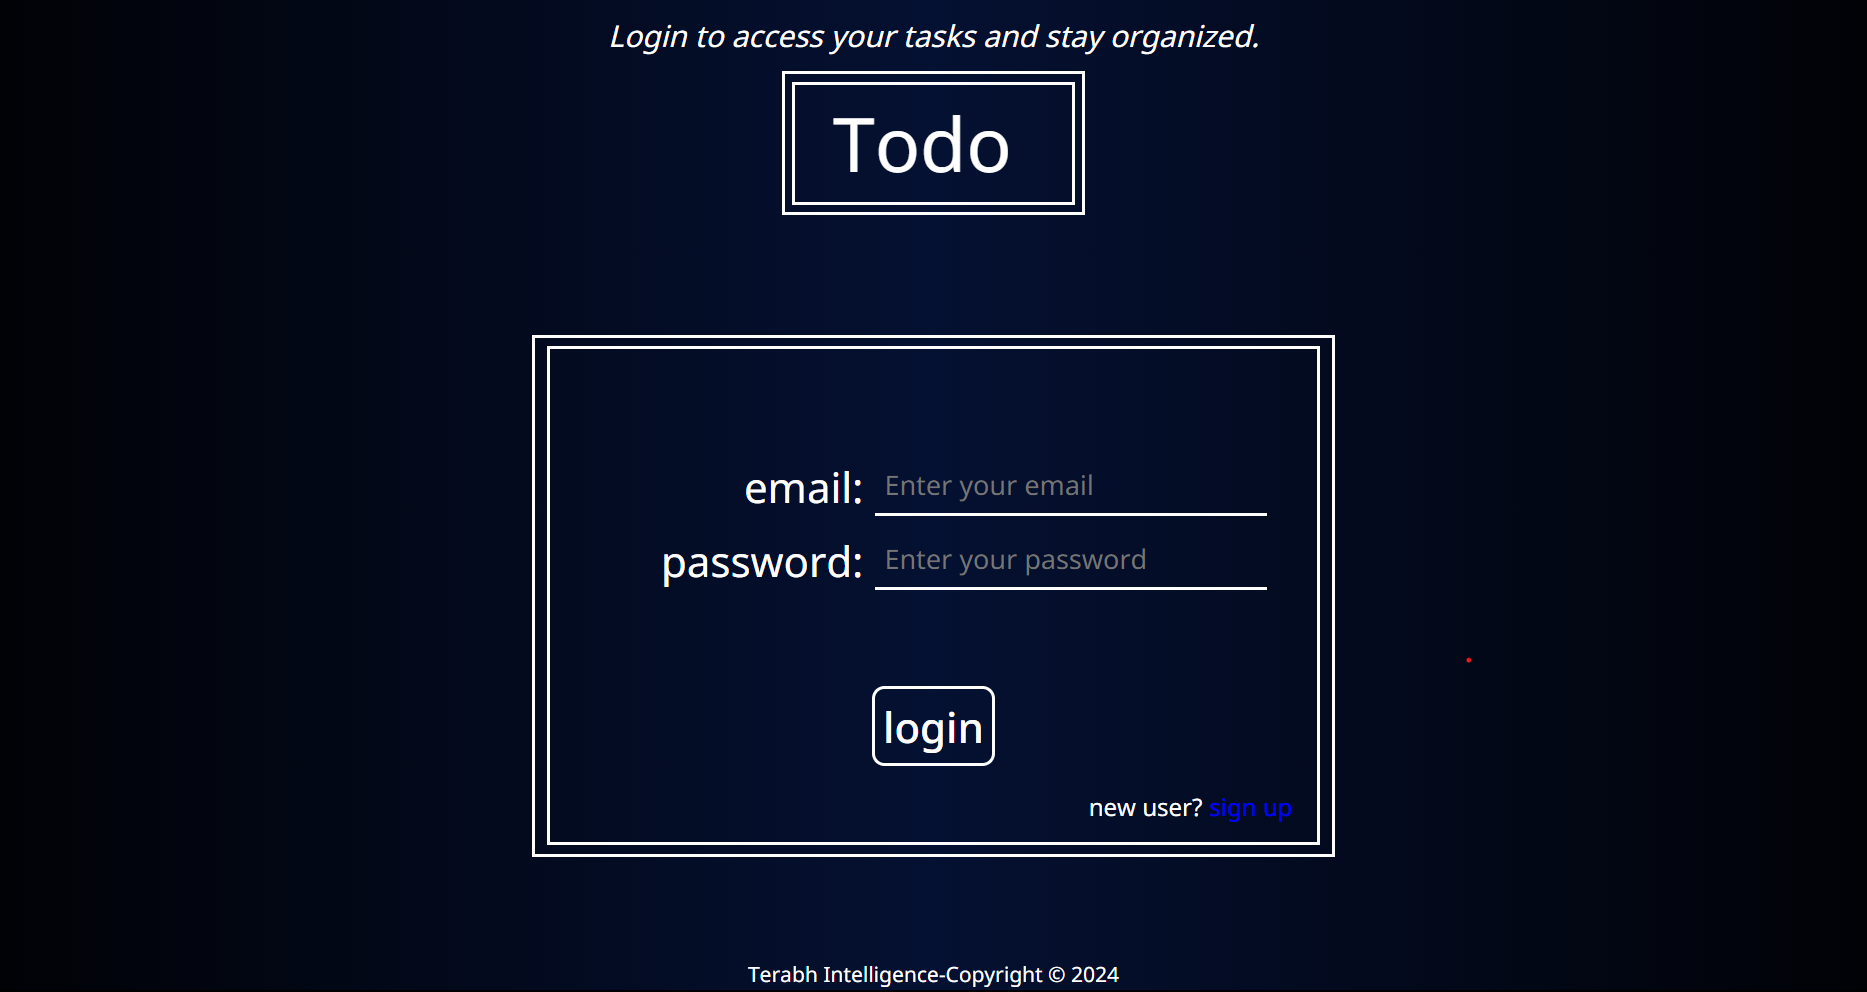
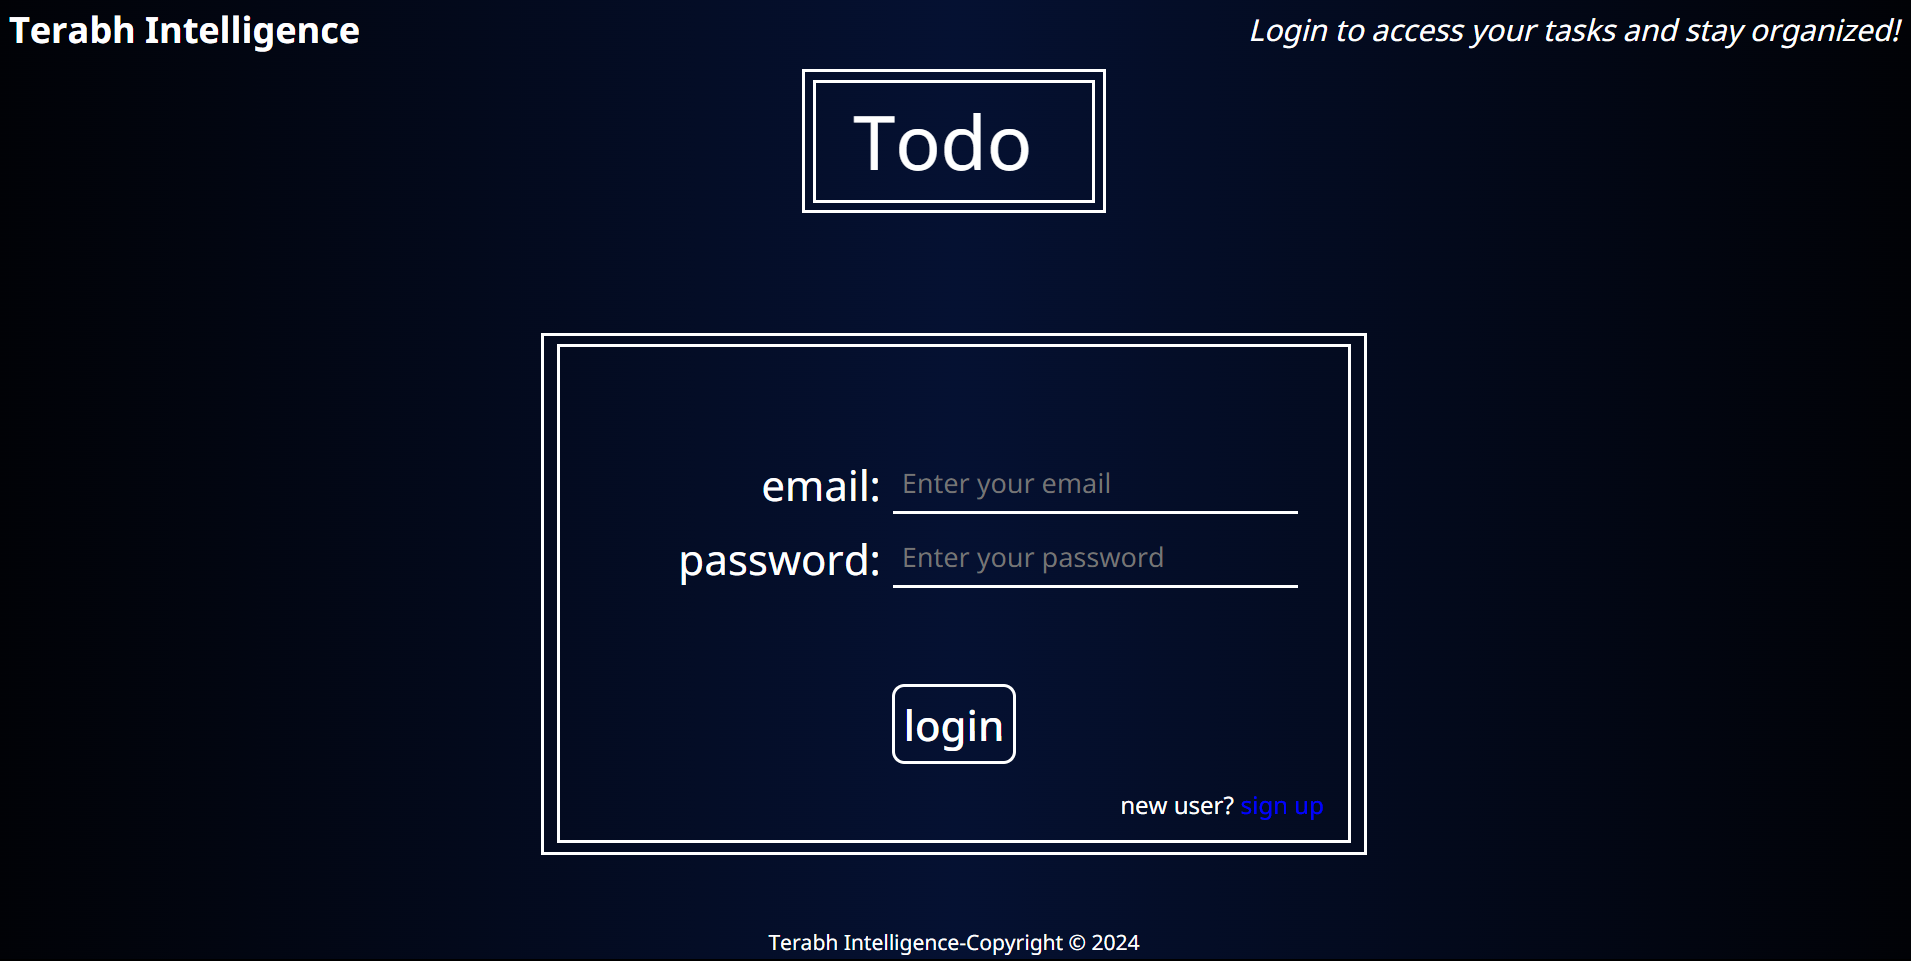
added a READEME file in the root directory

diff --git a/todo-frontend/src/App.css b/todo-frontend/src/App.css
@@ -58,11 +58,18 @@ html{
 
 .login-header {
     font-size: inherit;
-    font-style: italic;
     width: 100%;
     display: flex;
-    justify-content: center;
+    justify-content: space-between;
+    align-items: center;
     padding: 0.5em;
+}
+.login-header span{
+    font-size: 1.2rem;
+    font-weight: bold;
+}
+.login-header div{
+    font-style: italic;
 }
 .login-title-container{
     width: fit-content;
@@ -216,11 +223,20 @@ html{
 
 .signup-header {
     font-size: inherit;
-    font-style: italic;
     width: 100%;
     display: flex;
-    justify-content: center;
+    justify-content: space-between;
+    align-items: center;
     padding: 0.5em;
+}
+
+.signup-header span {
+    font-size: 1.2rem;
+    font-weight: bold;
+}
+
+.signup-header div {
+    font-style: italic;
 }
 .signup-title-container {
     width: fit-content;
@@ -368,7 +384,8 @@ html{
     width: 100%;
     text-align: center;
     font-family: inherit;
-    font-size: 2rem;
+    font-size: 1.5rem;
+    font-style: italic;
 }
 /* Header.js */
 .header {
@@ -503,7 +520,7 @@ html{
     width: 90%;
     margin-left:4em;
     margin-top: 1.5em;
-    max-height: 17.5em;
+    max-height: 15em;
     overflow-y: auto;
 }
 .tasks::-webkit-scrollbar {
@@ -542,8 +559,9 @@ html{
     align-items: start;
 }
 .task-item-container span {
+    width: 10%;
     font-family: inherit;
-    font-size: 1.3rem;
+    font-size: 1.2rem;
     font-weight: bold;
     border: none;
     padding: 0;
@@ -554,7 +572,7 @@ html{
 .task-name {
     width: 100%;
     font-family: inherit;
-    font-size: 1.3rem;
+    font-size: 1.2rem;
     background-color: inherit;
     border: none;
     color: white;

diff --git a/todo-frontend/src/components/Signup.js b/todo-frontend/src/components/Signup.js
@@ -52,7 +52,8 @@ const Signup = ({ email, setEmail, setToken }) => {
   return (
     <div className="signup">
       <div className="signup-header">
-        Sign up to start organizing your tasks and stay productive!
+        <span>Terabh Intelligence</span>
+        <div>Sign up to start organizing your tasks and stay productive!</div>
       </div>
       <div className="signup-title-container">
         <div className="signup-title">Todo</div>

diff --git a/todo-frontend/src/components/Login.js b/todo-frontend/src/components/Login.js
@@ -42,7 +42,8 @@ const Login = ({ email, setEmail, setToken }) => {
   return (
     <div className="login">
       <div className="login-header">
-        Login to access your tasks and stay organized.
+        <span>Terabh Intelligence</span>
+        <div>Login to access your tasks and stay organized!</div>
       </div>
       <div className="login-title-container">
         <div className="login-title">Todo</div>

diff --git a/todo-frontend/src/components/Home.js b/todo-frontend/src/components/Home.js
@@ -46,7 +46,7 @@ const Home = ({ email, token }) => {
     <div className="home">
       <Header email={email} />
       {loading ? (
-        <div className='loading'>Loading...</div>
+        <div className="loading">Loading your Tasks...</div>
       ) : (
         <TaskList token={token} tasks={tasks} setTasks={setTasks} />
       )}

diff --git a/todo-frontend/src/components/Header.js b/todo-frontend/src/components/Header.js
@@ -27,7 +27,7 @@ const Header = ({ email }) => {
   return (
     <div className="header">
       <div className="header-title" title={email}>
-        {email.split('@')[0]}'s Todo App
+        Welcome {email.split('@')[0]}
       </div>
       <button className="logout-button" onClick={(e) => handleSignOut(e)}>
         Logout

diff --git a/README.md b/README.md
@@ -1,7 +1,105 @@
 # Terabh-Intelligence Todo Website
 
-## Some things that I have observed in the backend =>
+## Table of Contents
 
-- For get_task, it is a POST request to be done, instead of a GET request
-- New Task name should be atleast 4 characters long, else server won't accept (make sure the task name is atleast 4 characters long while create_task and also update_task)
+1. [Brief Description](#brief-description)
+2. [Deployment](#deployment)
+3. [Languages Used](#languages-used)
+4. [Documentation](#documentation)
+5. [Features](#features)
+6. [Details](#details)
+7. [Feedback](#feedback)
 
+## Brief Description
+
+The Todo Website is a task management application designed to help users organize their daily activities and keep track of their tasks efficiently. Users can create, update, and delete tasks, mark tasks as completed, and filter tasks based on their status (pending or completed). The website provides a user-friendly interface with features such as task categorization, dynamic task creation and editing, and responsive design. It aims to enhance productivity by allowing users to prioritize their tasks and manage them effectively.
+
+## Deployment
+
+To deploy this project, proceed with the following steps:
+
+1. Fork this repository
+2. Clone this repository in your local Integrated Development Environment (IDE)
+3. Install dependencies and libraries required for client ->
+
+   `cd todo-frontend`
+
+   `npm install` (or) `npm i` for short
+
+4. For the Server setup instructions, please refer to the README file in the `./todo-backend` directory.
+
+5. Start the client ->
+
+   `cd todo-frontend`
+
+   `npm start`
+
+6. Finally, this project will be launched at http://localhost:3000.
+
+## Languages Used
+
+- React.js - for developing the front-end part of the project
+
+- Python - for managing the server side code (already done by the Terabh-Intelligence Team)
+
+## Documentation
+
+Refer to the below given respective documentations for the languages used to build this project.
+
+- [Documentation for React.js](https://react.dev/)
+
+- [Documentation for Python](https://docs.python.org/3/)
+
+## Features
+
+- Users can create, edit, and delete tasks as needed.
+- Tasks can be marked as either pending or completed, allowing users to track their progress.
+- Users can create tasks dynamically using a form, providing flexibility in adding new tasks.
+- Users can edit task names and statuses directly within the interface, enabling quick updates as needed.
+- The app aims to enhance productivity by helping users prioritize tasks and manage their time effectively.
+
+## Screenshots
+
+### Login Page
+
+![Login Page](/todo-frontend/src/imgs/01-login%20page.png)
+
+### Signup Page
+
+![Signup Page](/todo-frontend/src/imgs/02-signup%20page.png)
+
+### Loading Tasks
+
+![Loading Tasks](/todo-frontend/src/imgs/03-loading%20page.png)
+
+### Home Page
+
+![Home Page](/todo-frontend/src/imgs/04-home%20page%20without%20tasks.png)
+
+### All Tasks
+
+![All Tasks](/todo-frontend/src/imgs/05-task%20list%20page.png)
+
+### Pending Tasks
+
+![Pending Tasks](/todo-frontend/src/imgs/06-pending%20tasks.png)
+
+### Completed Tasks
+
+![Completed Tasks](/todo-frontend/src/imgs/07-completed%20tasks.png)
+
+## Details
+
+Name: Vakkalanka Ram Charan
+
+University/College: Indian Institute of Technology Bhubaneshwar
+
+Batch: 2021-2025
+
+Department: Electronics and Communication Engineering
+
+CGPA: 8.44
+
+## Feedback
+
+If you have any feedback, please reach me out at ramcharanvakkalanka@gmail.com
